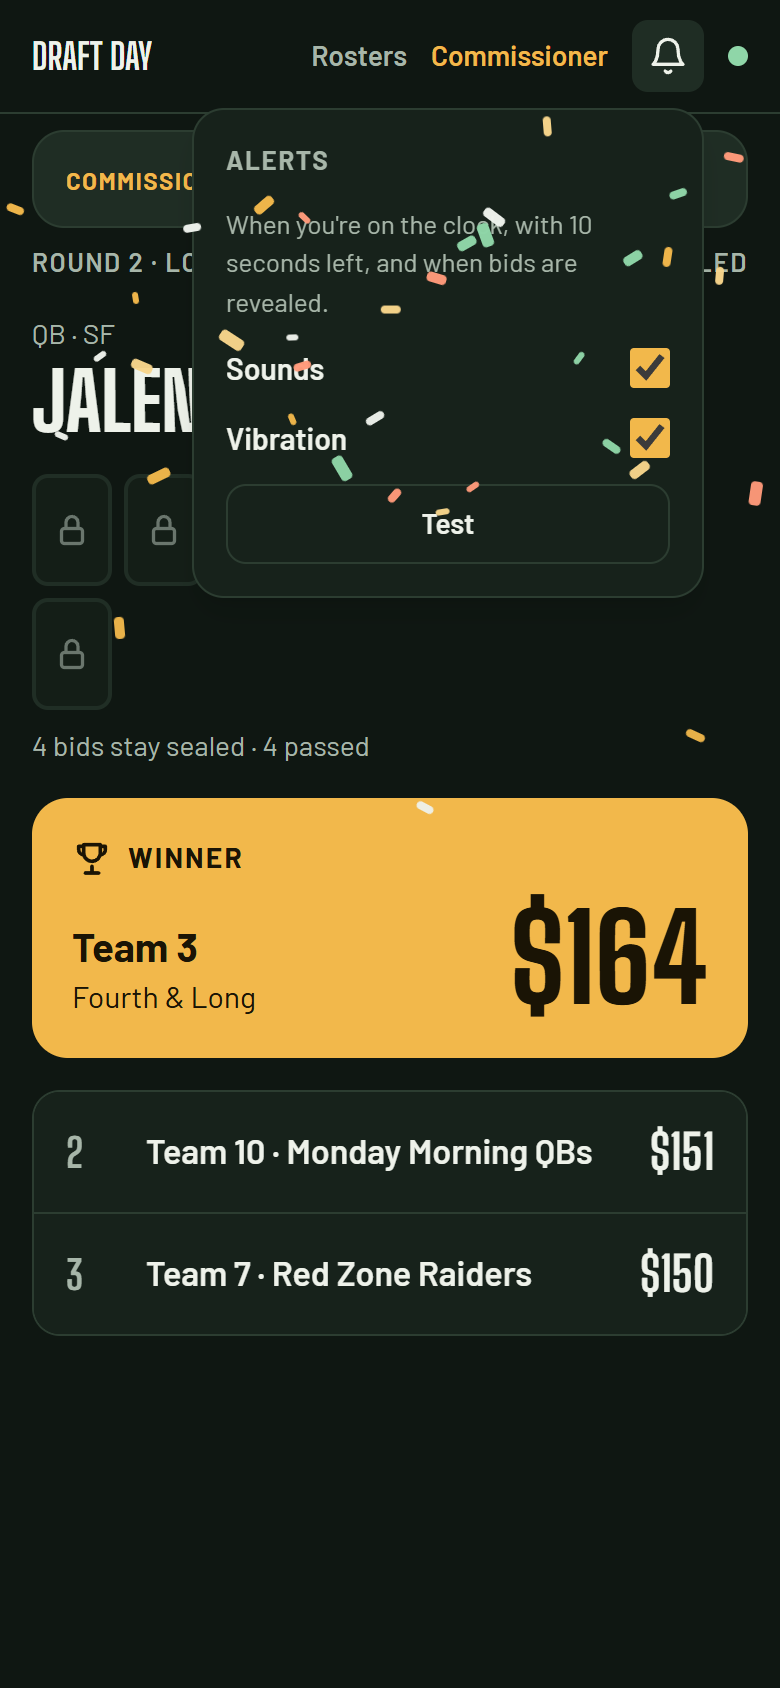
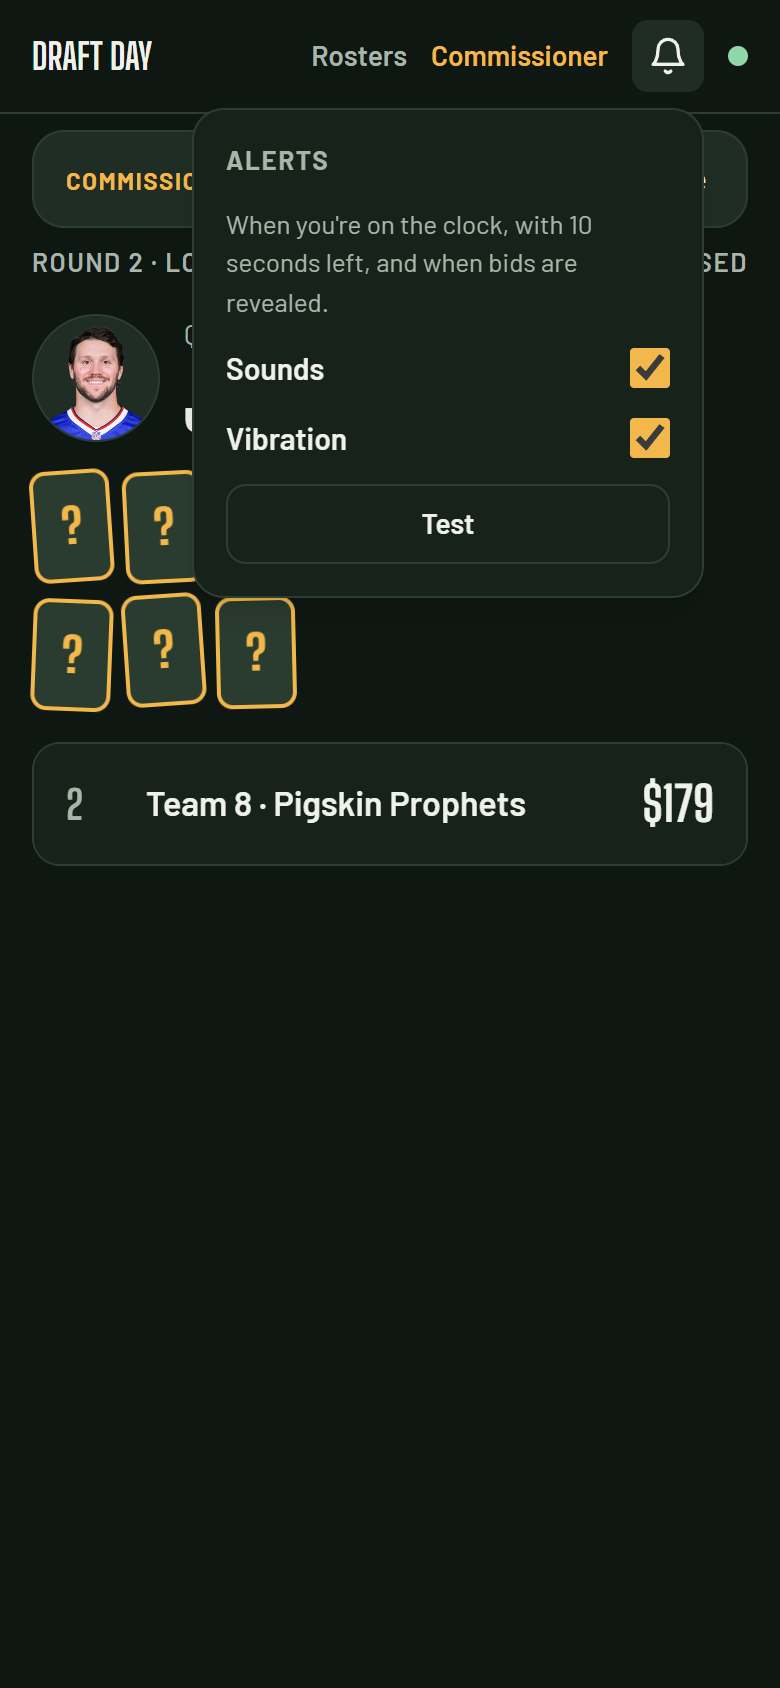
Update project docs and re-shoot README screenshots with the real NFL pool
- PROGRESS.md: today's later work and the second manual mock draft, a
  fixed gap removed, the photo-source caveat, pick-up notes (real NFL
  CSV, reattaching bots, the kept test leagues), commit refs.
- README/SPEC/UI: player photos and bye weeks, the 10-second "Up next"
  countdown, the photo column in the pool and API.
- Every README screenshot re-shot from a demo draft on the real 2026 NFL
  pool, so they show photos, bye weeks and the current reveal show.

diff --git a/PROGRESS.md b/PROGRESS.md
@@ -13,7 +13,11 @@ lot, injuries, 10-second "back in" countdown), then real sign-in (email code
 + magic link), then turned the reveal into a build-up show with the next
 clock held until it's over, refreshed the README and all its screenshots,
 gave the big board a TV-sized reveal, and added the server CSV export and
-mid-draft settings (reveal setting, league rename).
+mid-draft settings (reveal setting, league rename). Then a second manual mock
+draft ("Test 2": the user as commissioner + 11 bots, with a real 2026 NFL
+pool) drove player photos, bye weeks, slower reveal pacing with a 10-second
+"Up next" countdown, and fixes (paused clocks, the board's team list, reveals
+cut short when only bots were bidding). All committed through `1706127`.
 This file is a handoff snapshot, not permanent documentation — SPEC.md and
 UI.md are the source of truth for rules/design; this just tracks where we are
 and what's next.
@@ -34,9 +38,8 @@ verified in headless Chrome against a live server, including the pre-draft flow
 (League setup, Lobby, invite/claim). A full setup → join → start → draft run
 works through the UI alone, and two full-length 12-team scripted mock drafts
 (see "Mock draft runs" below) have finished clean. SPEC's phase-3 "done when" —
-friends complete a mock draft on phones — hasn't happened yet. Committed
-through `468cf86` (nominations list), then README screenshots and the
-watchlist/queue and sounds/vibration (see below). [README.md](README.md) walks through every screen, the rules, the
+friends complete a mock draft on phones — hasn't happened yet (it needs
+hosting). Everything is committed through `1706127`. [README.md](README.md) walks through every screen, the rules, the
 architecture, the stack, setup and the API.
 
 ## What's actually built and working in apps/web
@@ -224,6 +227,12 @@ architecture, the stack, setup and the API.
   a `size="board"` TV layout at the big board's scale (96px player, 168px
   price, flipped bids and next-up in a right column, bigger confetti, plus
   the pause banner and commissioner notices). Checked live at 1600×900.
+- **README screenshots re-shot again** (after Test 2) from a demo draft on the
+  real 2026 NFL pool, so they show photos, bye weeks and real names
+  (`walkthrough3.mjs` in the scratchpad: like walkthrough2 but loads
+  `nfl-players-2026.csv`, waits out reveals, and times the reveal shots to
+  the engine's show; `OUT=` and `STOP_AFTER_REVEAL=1` re-shoot just the
+  reveal).
 - **README refresh**: text brought up to date (queue, alerts, reveal show,
   console edits, sign-in, API/data model) and every screenshot re-shot from
   a new demo draft (`walkthrough2.mjs` in the scratchpad: signs in with real
@@ -489,14 +498,17 @@ Walkthrough, manual test and nominations session (2026-09-26):
   per draft and each save is ~2 round trips to the remote dev DB. A database
   co-located with the server should fix it; if not, the next step would be
   batching queued actions into one save ("group commit").
-- **During a tie, the reveal's "Up next" card names the tied lot itself**
-  (it's still the current lot). Minor, not fixed.
 - **The big board has no Rosters view** — it's a separate spectator route and
   only shows the teams overview column. Rosters & budgets needs a login.
 - **Undo doesn't roll back a phase change.** Undoing the award that ended the
   auction leaves the draft in the snake. SPEC is silent; not handled.
 - **Undoing a snake pick doesn't pause** and doesn't give the team its turn
   back — unchanged from phase 1; SPEC only spells out the award case.
+- **Player photos load from Sleeper's image server** (headshots, and team
+  logos for defenses), linked from the pool CSV. Fine for a private league;
+  it relies on Sleeper keeping those URLs, and the images belong to the NFL
+  and teams — not for a public or commercial app. Missing or broken photos
+  show the player's initials.
 - **Commissioner roster edits are blocked during the make-up round**, and
   adding a player only fills a spot the team has open — by design, so no
   roster can end up over size. Edits aren't undoable; fix one with a
@@ -531,6 +543,11 @@ Latest run: 17.6 min, 94 lots (67 ties), no findings. The script lives in the
 session scratchpad, not the repo — worth checking in (e.g. as
 `apps/server/scripts/mock-draft.mjs`) before the next big change.
 
+Manual runs: the user as commissioner (and one team) with 11 bots
+(`bots.mjs`). The second, "Test 2" (2026-09-26), used the real 2026 NFL pool
+and finished cleanly (auction → snake → make-up → complete, 204 picks); the
+user's feedback during it is in "What's actually built" above.
+
 ## How to pick this back up tomorrow
 
 - `apps/server`: `pnpm --filter @draft-app/server dev` (or
@@ -539,7 +556,7 @@ session scratchpad, not the repo — worth checking in (e.g. as
   --env-file`, not PowerShell's).
 - `apps/web`: `pnpm --filter @draft-app/web dev`, then http://localhost:5173.
 - Both `pnpm run typecheck` and `pnpm run build` are clean across all three
-  packages as of the player-photos commit. Note `pnpm run typecheck`
+  packages as of `1706127`. Note `pnpm run typecheck`
   checks the server against the engine's built `dist`, so run `pnpm run build`
   (or build the engine) first after changing engine types.
 - Headless browser checks: Chrome is installed; `playwright-core` with
@@ -547,14 +564,21 @@ session scratchpad, not the repo — worth checking in (e.g. as
 - Local sign-in: with `DEV_LOGIN=true` in `apps/server/.env` the login
   page offers the no-check developer login (and the bot scripts'
   `/dev/session` works). Real sign-in codes appear in the server console.
+- A real 2026 NFL player pool: `nfl-players-2026.csv` in the user's
+  Downloads (306 players with MFL ids, byes and Photo links; rebuilt from
+  MFL's public `export?TYPE=players|adp|nflByeWeeks` for 2026 and Sleeper's
+  `/v1/players/nfl` for photos). Upload it in a lobby like any pool CSV.
+- Manual test bots: `bots.mjs` joins the next league created (leaving one
+  team for the user), or reattaches to a league with `LEAGUE_ID=<id>` — do
+  that after any server restart, since the bots' sockets don't rejoin.
 - Demo drafts can now be set up through the UI (or POST /leagues + POST
   /invites/:code/claim) — no more direct `update team set user_id` needed.
 - The session scratchpad holds `mock_draft.mjs` (full scripted run),
   `bots.mjs` (manual test bots), `walkthrough2.mjs` (demo draft +
-  screenshots) — none are in the repo; check the useful ones in before
-  relying on them.
-- The Supabase dev DB from this session still has several leftover test
-  leagues/drafts in it (named things like "Snake Demo League", "Nominate Demo
-  League") — harmless, but worth a scoped cleanup pass (by league name, never
-  an unscoped `DELETE`) before or during the Commissioner console work if it
-  gets noisy.
+  screenshots) — none are in the repo, and a scratchpad doesn't outlive the
+  session; check the useful ones in before relying on them.
+- The Supabase dev DB still holds the user's two manual-test leagues, TEST
+  LEAGUE and Test 2 — keep them unless the user says otherwise — plus a few
+  older demo leagues ("Snake Demo League", "Nominate Demo League"). A scoped
+  cleanup (by league name, never an unscoped `DELETE`) is fine for the demo
+  ones when it gets noisy.

diff --git a/README.md b/README.md
@@ -4,7 +4,7 @@ A real-time web app for running a **sealed-bid auction + snake** fantasy footbal
 
 The goal is to cut a 6–8 hour whiteboard draft to about 3 hours without changing how the league plays.
 
-> **Status:** phases 1–3 of the build plan are done (rules engine, server, all draft-day and pre-draft screens), with two full-length 12-team scripted mock drafts completing cleanly against the live server. Since then: email sign-in (code + link), a private ranked queue, sounds and vibration, the full commissioner console (budget/roster edits, void lot, injuries), and a build-up reveal show. Still to come: hosting, a real mock draft with the league on phones, and MyFantasyLeague import/export. See [What's not built yet](#whats-not-built-yet).
+> **Status:** phases 1–3 of the build plan are done (rules engine, server, all draft-day and pre-draft screens), with two full-length 12-team scripted mock drafts completing cleanly against the live server. Since then: email sign-in (code + link), a private ranked queue, sounds and vibration, the full commissioner console (budget/roster edits, void lot, injuries), a build-up reveal show (with a TV version for the big board), a server CSV export, and player photos and bye weeks. A second manual mock draft (the commissioner plus 11 bots, with a real 2026 NFL player pool) finished cleanly. Still to come: hosting, a real mock draft with the league on phones, and MyFantasyLeague import/export. See [What's not built yet](#whats-not-built-yet).
 
 **Contents**
 
@@ -116,7 +116,7 @@ One screen that shows whatever is happening right now.
   <img src="docs/screenshots/nominate-search.png" alt="Nominate search showing an already-nominated player and why" width="260">
 </p>
 
-**Bid.** The player card with a countdown ring; your budget, auction spots and count at this position; an amount entry (keypad on phones, a typed field + Enter on laptops); **Lock in sealed bid** and **Pass**. After locking in: "Your bid is in and hidden" (or "You passed") with **Change bid / pass**. A strip shows "N of M are in" — one tile per team, never amounts, bids and passes identical. If you can't bid (full, broke, at a position max) the controls say why.
+**Bid.** The player card — photo, then position · NFL team · bye week above the name — with a countdown ring; your budget, auction spots and count at this position; an amount entry (keypad on phones, a typed field + Enter on laptops); **Lock in sealed bid** and **Pass**. After locking in: "Your bid is in and hidden" (or "You passed") with **Change bid / pass**. A strip shows "N of M are in" — one tile per team, never amounts, bids and passes identical. If you can't bid (full, broke, at a position max) the controls say why.
 
 <p>
   <img src="docs/screenshots/bid-phone.png" alt="Bid on a phone: keypad, Lock in sealed bid, Pass" width="260">
@@ -196,7 +196,7 @@ Resume starts a 10-second "Back in…" countdown on every screen before the cloc
 
 ### 8. Big board (`/board/:id`)
 
-A read-only 16:9 view for a TV or projector — no login needed. During nominations it shows a tile per team in nomination order (the player each has put up, the team on the clock with its countdown, the teams still to come). During bidding: the live lot with a very large clock, the "who's in" strip, this round's lots (sold / bidding now / up next), and every team's money and spots (broke teams flagged). It also plays the reveal show (without sound), shows tie-breaks, break countdowns, commissioner notices, the snake and make-up board, and finally the results. Because it needs no login, **the big board link doubles as the shareable results page**.
+A read-only 16:9 view for a TV or projector — no login needed. During nominations it shows a tile per team in nomination order (the player each has put up, the team on the clock with its countdown, the teams still to come). During bidding: the live lot (player photo, position · team · bye, name) with a very large clock, the "who's in" strip, this round's lots (sold / bidding now / up next), and every team's money and spots (broke teams flagged). It also plays the reveal show (without sound), shows tie-breaks, break countdowns, commissioner notices, the snake and make-up board, and finally the results. Because it needs no login, **the big board link doubles as the shareable results page**.
 
 <img src="docs/screenshots/board-nominations.png" alt="Big board during nominations" width="800">
 
@@ -436,7 +436,7 @@ All HTTP routes except sign-in (`/auth/*`, `/dev/session`) and `/drafts/:id/spec
 | DELETE | `/leagues/:id/teams/:teamId/manager` | Free a claimed slot (commissioner) |
 | PUT | `/leagues/:id/draft-order` | Set the draft order manually |
 | POST | `/leagues/:id/draft-order/shuffle` | Shuffle the order on the server |
-| GET / POST | `/leagues/:id/players` | List / add players (POST accepts `replace: true`) |
+| GET / POST | `/leagues/:id/players` | List / add players (POST accepts `replace: true`; each player may carry an `https://` `photoUrl`) |
 | GET / PUT | `/leagues/:id/queue` | Your own ranked queue `{ playerIds }` (before or during the draft) |
 | DELETE | `/leagues/:id/players/:playerId` | Remove a player from the pool |
 | POST | `/leagues/:id/start` | Create the draft and start it; locks setup |
@@ -488,7 +488,7 @@ Budgets and roster counts are always *derived* from awards, picks and the commis
 | `league` | Name, commissioner, invite code |
 | `draft_settings` | Every league setting (one row per league) |
 | `team` | Team slots: name, draft number, the manager who claimed it |
-| `player` | The league's player pool (MFL id, name, position, NFL team, bye) |
+| `player` | The league's player pool (MFL id, name, position, NFL team, bye, optional photo URL) |
 | `draft` | Phase, round, current lot/pick, paused/break, version, engine bookkeeping (including the commissioner's edit log and budget adjustments) |
 | `lot` | A nominated player up for bid: state, clocks, eligibility snapshot, tie round, winner, price, reveal setting at reveal |
 | `bid` | Every bid and pass (including replaced ones, for the audit trail) |

diff --git a/SPEC.md b/SPEC.md
@@ -117,7 +117,7 @@ Final rosters, spend per team and a full pick/bid log, exportable as CSV, a shar
 | FR-01 | Commissioner creates a league with all settings in the rules table; settings lock when the draft starts, except clock lengths and reveal display | Must |
 | FR-02 | Managers join via invite link and claim a team (name, optional avatar); no password beyond a magic link or code | Must |
 | FR-03 | Draft order: random shuffle or manual assignment of team numbers | Must |
-| FR-04 | Player pool imported from MyFantasyLeague's player export, searchable by name, position, NFL team; manual add/edit | Must |
+| FR-04 | Player pool imported from MyFantasyLeague's player export, searchable by name, position, NFL team; manual add/edit; an optional photo per player (an `https://` link in the CSV's Photo column) | Must |
 | FR-05 | Nomination order snakes across auction rounds (1→12, 12→1); only available players; skip teams that are full or broke | Must |
 | FR-06 | Sealed bids: one active bid or pass per team per lot, editable until close, bids validated against min bid, bid step, remaining budget and position max; a pass is indistinguishable from a bid before reveal | Must |
 | FR-07 | Bid amounts are never sent to any client (commissioner included) before reveal; clients only see submitted/not submitted per team | Must |
@@ -211,7 +211,7 @@ Budgets and roster counts are derived from awards and picks rather than stored a
 | `session` | token, user_id, expires_at | 90 days; big-board tokens (`spec_…`) are watch-only and last 2 days |
 | `login_code` | email, code_hash, link_hash, next, attempts, expires_at, used_at | One sign-in email: 6-digit code and link, 15 minutes, single use, 5 wrong tries; 5 emails per address per 15 minutes |
 | `team` | id, league_id, user_id, name, draft_number | draft_number = 1..N |
-| `player` | id, mfl_id, name, position, nfl_team, bye_week, status, custom | Imported pool + manual adds |
+| `player` | id, mfl_id, name, position, nfl_team, bye_week, photo_url, status, custom | Imported pool + manual adds; photo_url is display only |
 | `draft` | id, league_id, phase (setup/auction/snake/makeup/complete), auction_round, current_lot_id, current_pick_no, paused, break_ends_at, version | `version` increments on every change for client sync |
 | `lot` | id, draft_id, round, order_in_round, player_id, nominated_by_team_id, state, tie_round, ends_at, remaining_ms, winner_team_id, price | One nominated player up for bid |
 | `bid` | id, lot_id, team_id, tie_round, amount, received_at, superseded | Latest non-superseded row per team per tie_round counts |

diff --git a/UI.md b/UI.md
@@ -82,7 +82,7 @@ The same screens and rules on every device; only the layout changes.
 - Amber winner card: team number and name, price in large display type.
 - Runner-up rows as allowed by the reveal setting (default 2), then "N other bids stay hidden" and "N teams passed" (a count, never who).
 - Tiles showing the winner's budget before → after and auction spots now filled.
-- "Up next" card with the next lot and a short countdown.
+- "Up next · clock starts in" card with the next lot and a 10-second countdown (never shown for a tie, where the same lot carries on).
 
 ### 4. Tie re-bid (`TieRebid.dc.html`)
 - Warn-colored banner "You're still tied" with who you're tied with, the amount, and the tie clock.
